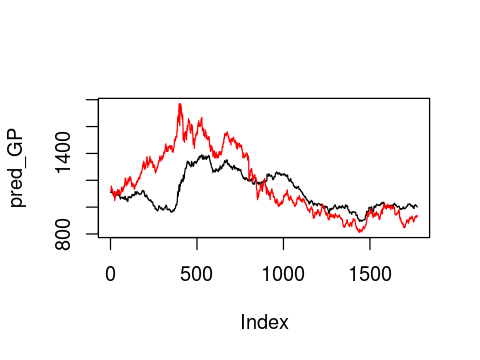
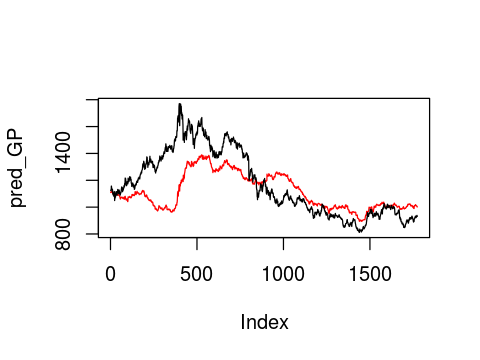
Add files via upload

Changed region(s): [[0.3438, 0.3056, 0.875, 0.6417], [0.2188, 0.4278, 0.3438, 0.5806], [0.3125, 0.5194, 0.375, 0.6111]]

diff --git a/Roc2010_t1_omit0.csv R notebook.md b/Roc2010_t1_omit0.csv R notebook.md
@@ -139,7 +139,7 @@ lines(pred$net.result,col="red")
 
 
 ```R
-#將漲跌幅回推成黃金歷史牌價，紅色為訓練資料，黑色為預測資料
+#將漲跌幅回推成黃金歷史牌價，黑色為訓練資料，紅色為預測資料
 init_GP<-1113
 
 for( i in c(1:length(pred$net.result)))
@@ -161,8 +161,8 @@ for( i in c(1:length(dat$Gt)))
   else
     train_GP= c(train_GP,train_GP[i-1]+train_GP[i-1]*(dat$Gt[i]/100))    
 }
-plot(pred_GP,ylim=c(min(min(pred_GP),min(train_GP)),max(max(pred_GP),max(train_GP))),type="l")
-lines(train_GP,col="red")
+plot(pred_GP,ylim=c(min(min(pred_GP),min(train_GP)),max(max(pred_GP),max(train_GP))),type="l",col="red")
+lines(train_GP)
 ```
 
 
